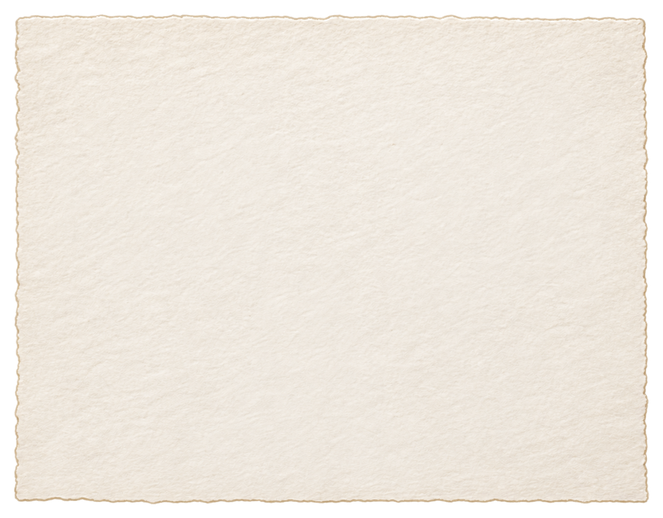
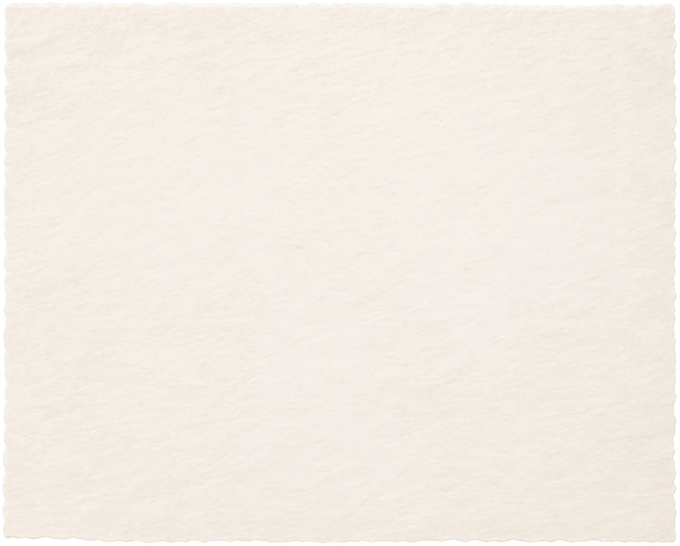
Pack peek: the new deckled paper (no baked shadow, so the shadow is drawn in CSS)

Changed region(s): [[0.0, 0.0, 0.9955, 1.0]]

diff --git a/src/app/css/native.css b/src/app/css/native.css
@@ -997,12 +997,13 @@ html[data-motion="reduce"] .cer-aura .spin { animation:none; }
 /* the zoomed pack tilts toward the pointer: the picture and its label are one layer */
 .mkz-tilt { position:absolute; inset:0; transform:perspective(700px) rotateX(var(--rx,0deg)) rotateY(var(--ry,0deg)); }
 
-/* A peek inside a pack: stickers on a sheet of paper under a strip of tape (js/shared.js PackPeek). The paper's own shadow is part of the art. */
+/* A peek inside a pack: stickers on a sheet of paper under a strip of tape (js/shared.js PackPeek). */
 .peek-fig { margin:2px 0 0; text-align:center; }
 .peek-fig figcaption { margin-top:8px; font:500 12.5px/1.3 var(--sys); color:var(--muted); }
-.peek-sheet { position:relative; width:100%; aspect-ratio:663 / 518; background:var(--a-peekPaper) center / 100% 100% no-repeat; }
+.peek-sheet { position:relative; width:94%; margin:0 auto; aspect-ratio:680 / 546; }
+.peek-sheet::before { content:""; position:absolute; inset:0; background:var(--a-peekPaper) center / 100% 100% no-repeat; filter:drop-shadow(0 1px 1px rgba(60,45,20,.28)) drop-shadow(0 4px 6px rgba(60,45,20,.18)); } /* the art has no shadow of its own */
 .peek-tape { position:absolute; left:50%; top:-3.5%; width:25%; aspect-ratio:360 / 169; translate:-50% 0; rotate:-1.5deg; background:var(--a-peekTape) center / 100% 100% no-repeat; z-index:3; pointer-events:none; filter:drop-shadow(0 1px 1.5px rgba(60,45,20,.3)); }
 .peek-item { position:absolute; transform:translate(-50%,-50%) rotate(var(--r,0deg)); display:grid; place-items:center; }
 .peek-item > img, .peek-item > .stk { max-width:100%; max-height:100%; filter:drop-shadow(0 3px 4px rgba(60,45,20,.28)); }
 .peek-item > img { width:100%; height:100%; object-fit:contain; }
-.peek-fig.compact .peek-sheet { width:72%; margin:0 auto; }
+.peek-fig.compact .peek-sheet { width:68%; }
